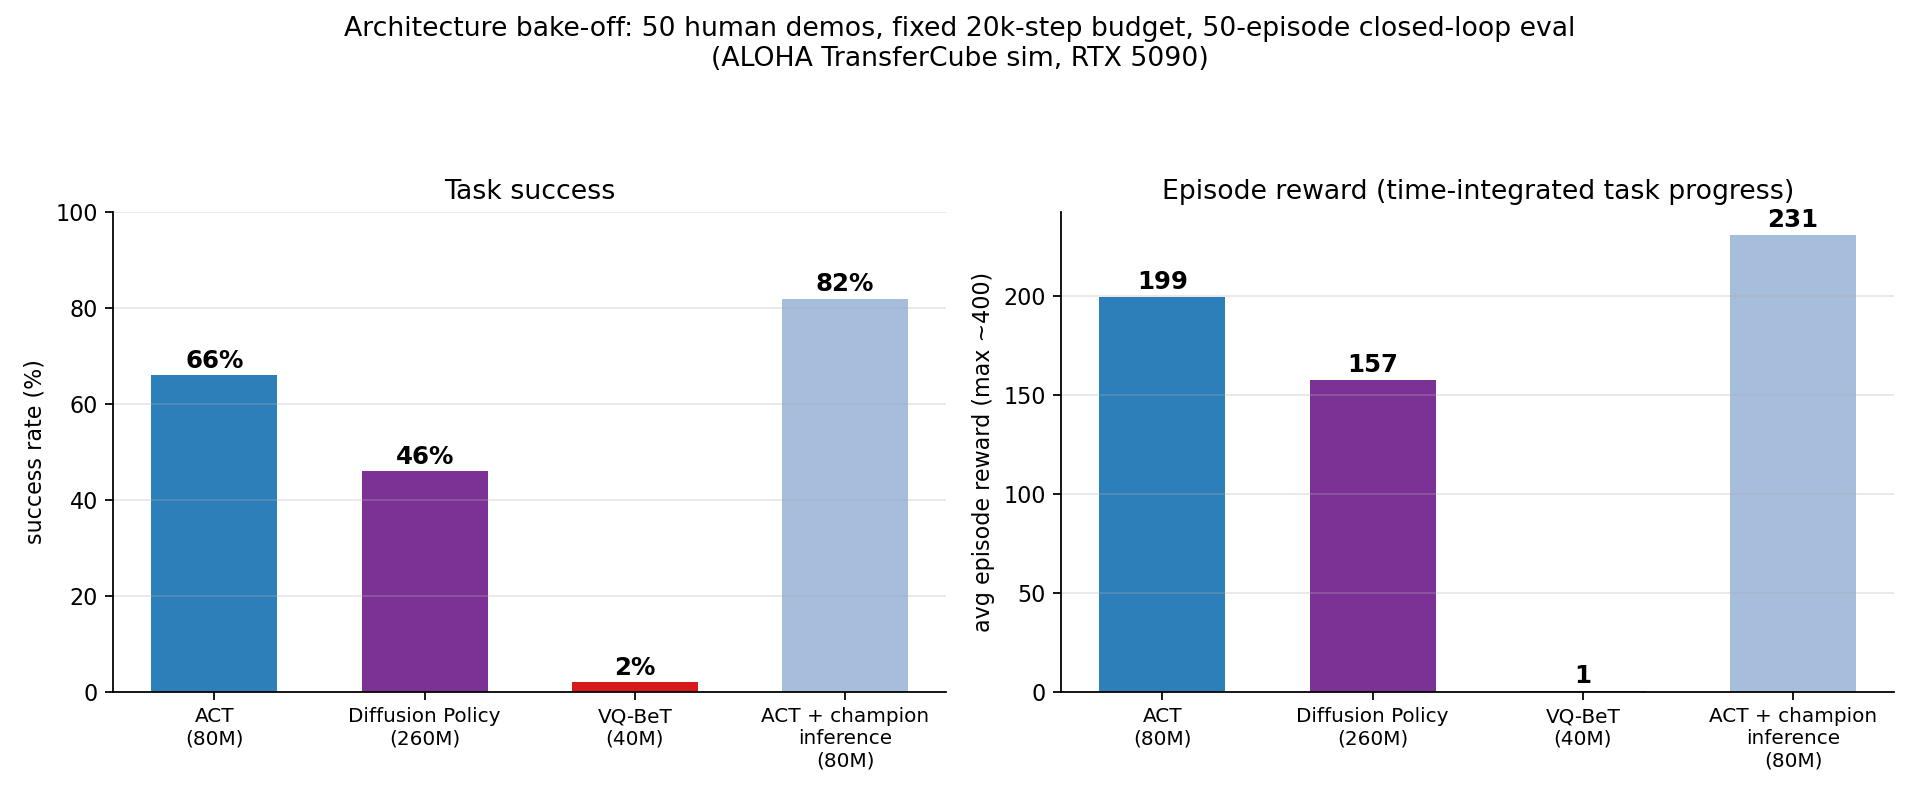
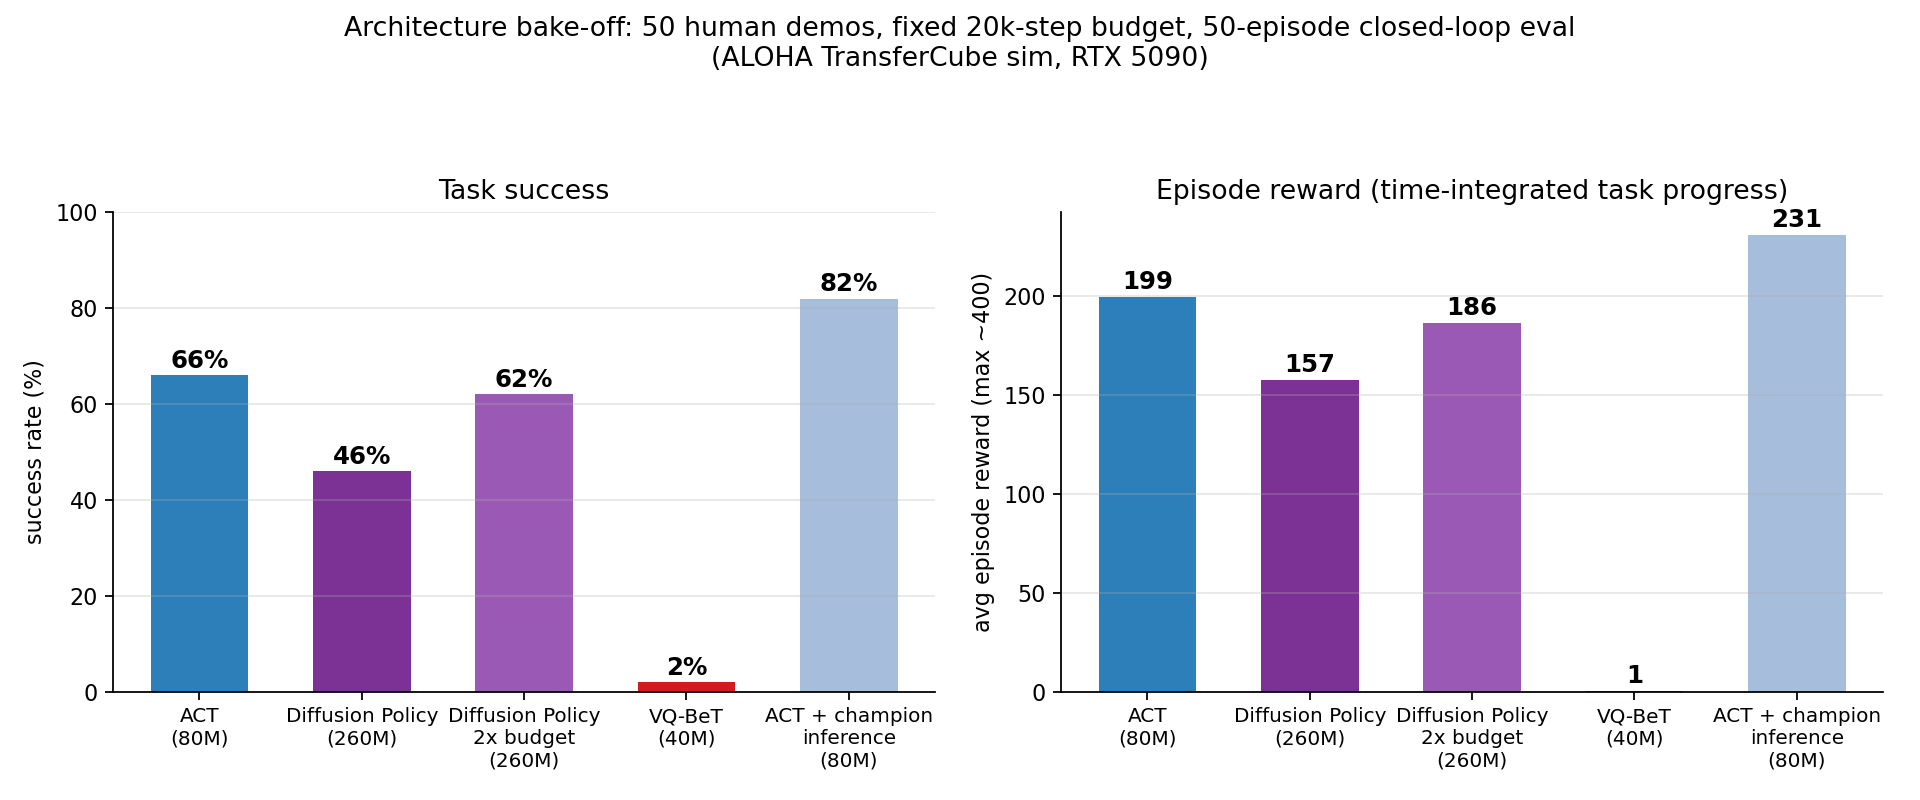
Deck update: dp_40k=62% in bake-off, scatter slide (remote insertion 18%, vqbet diagnosis), A3 budget confirmed

diff --git a/make_presentation.py b/make_presentation.py
@@ -116,8 +116,23 @@ slides = [
     f"""
     <h2>Bake-off results</h2>
     <img src="{bakeoff}" style="width:88%">
-    <p style="font-size:0.85em">DP/VQ-BeT use library defaults tuned on simpler benchmarks (floor, not ceiling) &mdash;
-    tuning them is the loop's natural next assignment. DP at 2&times; budget (40k steps): running now.</p>
+    <p style="font-size:0.85em">DP/VQ-BeT use library defaults tuned on simpler benchmarks (floor, not ceiling).
+    The loop already chased two follow-ups: <b>DP at 2&times; budget &rarr; 62%</b> (+16: it was underfit &mdash;
+    ACT wins <i>per unit compute</i>, DP scales with budget) and a diagnosed VQ-BeT config fix (running).</p>
+    """,
+    # 9b ── scatter + harder task
+    """
+    <h2>Scaling out: 2nd GPU over Tailscale + a harder task</h2>
+    <ul>
+      <li>Loop scales horizontally: bootstrapped a second RTX 5090 from the public repo in ~10 min
+          (clone &rarr; apply patches &rarr; uv install &rarr; run); results merge back as git rows.</li>
+      <li><b>New benchmark row (remote):</b> ACT on <b>ALOHA Insertion</b> (both arms must align a peg into a
+          socket) at the same 20k budget: <b>18%</b> success &mdash; independently reproduces the original
+          ACT paper's ~20% on human demos, and confirms Insertion as the high-headroom target for the loop.</li>
+      <li><b>Diagnosed &amp; fixed (local):</b> VQ-BeT's 2% traced to two config landmines &mdash; an 84&times;84
+          crop (2.3% of the ALOHA frame: the policy was nearly blind) and a two-phase schedule where our 20k
+          budget trained <i>only</i> the codebook, never the GPT policy head. Fix running under the same budget.</li>
+    </ul>
     """,
     # 10 ── learnings
     """
@@ -203,8 +218,8 @@ slides = [
           valleys. Output: a clean sample from one strategy, mush from none.</li>
       <li><b>Why DP still lost our bake-off (46% vs 66%):</b> near-unimodal demos (its strength never engaged),
           fixed 20k budget penalizes slow-converging diffusion training, PushT-tuned defaults,
-          and stochastic decoding noise at the precision handoff. Floor, not ceiling &mdash; dp_40k tests
-          the budget hypothesis.</li>
+          and stochastic decoding noise at the precision handoff. Budget hypothesis since <b>confirmed</b>:
+          2&times; steps &rarr; 62% (+16), most of the gap was underfitting.</li>
     </ul>
     """,
 ]

diff --git a/make_bakeoff_figure.py b/make_bakeoff_figure.py
@@ -13,6 +13,7 @@ import matplotlib.pyplot as plt
 MODELS = {
     "baseline": ("ACT", "80M", "#2c7fb8"),
     "dp_20k": ("Diffusion Policy", "260M", "#7b3294"),
+    "dp_40k": ("Diffusion Policy\n2x budget", "260M", "#9b59b6"),
     "vqbet_20k": ("VQ-BeT", "40M", "#d7191c"),
 }
 